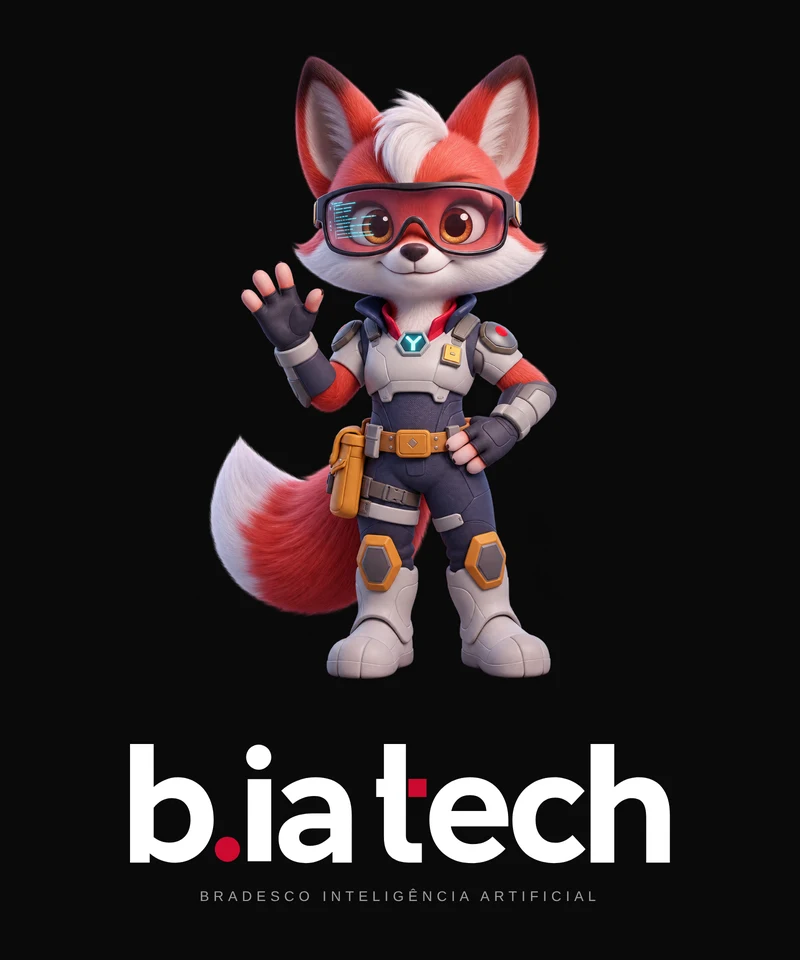
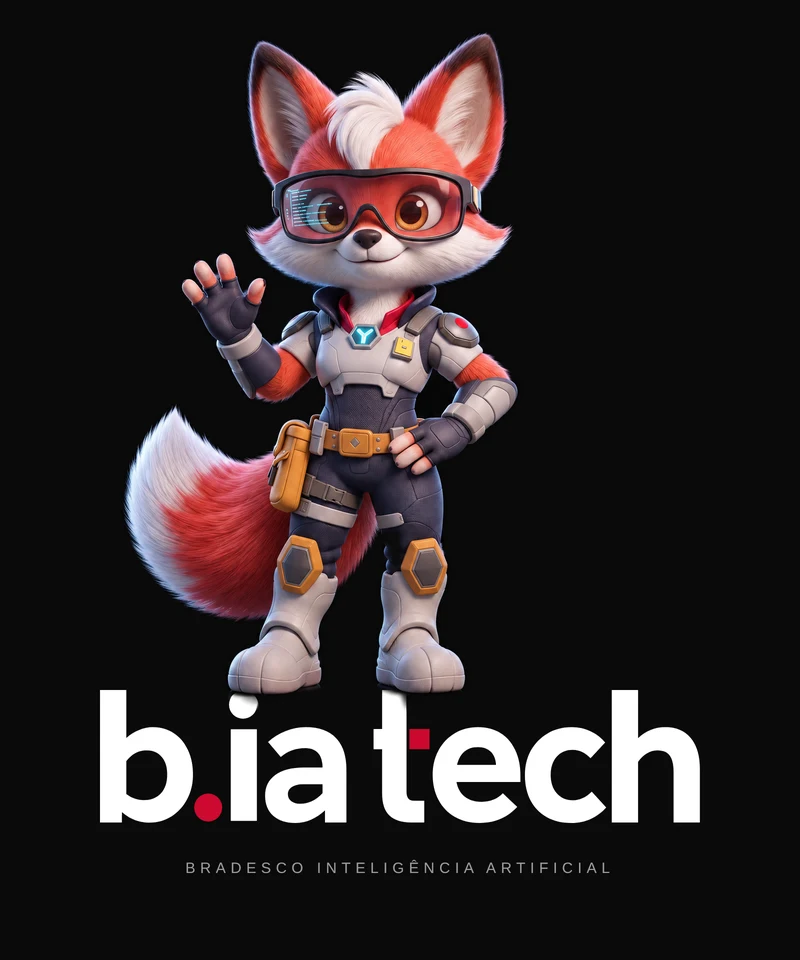
Lockup vertical gerado como cena: BIA de pé sobre o wordmark
Claude-Session: https://claude.ai/code/session_01ADeYYMQxRk91v9C1RJmNJ3

diff --git a/brandbook-html/index.html b/brandbook-html/index.html
@@ -463,7 +463,7 @@ pre.code{margin:0;background:var(--ink);color:var(--t-d2);font:12.5px/1.7 var(--
 <section id="lockups" class="dark grid">
   <div class="wrap">
     <div class="sec-h"><span class="lab">09 — Lockups</span><h2>BIA Tech com o wordmark</h2>
-      <p class="lead">O lockup é a única forma aprovada de juntar a personagem e a marca numa assinatura. Cada lockup tem arte própria: no horizontal, a BIA fica à direita, virada para o wordmark, e o apresenta com a palma da mão; no vertical, ela aparece de corpo inteiro acenando, centralizada acima do wordmark, com um respiro de 1X entre os pés e o topo do "t". Não monte combinações novas com outras poses.</p></div>
+      <p class="lead">O lockup é a única forma aprovada de juntar a personagem e a marca numa assinatura. Cada lockup tem arte própria: no horizontal, a BIA fica à direita, virada para o wordmark, e o apresenta com a palma da mão; no vertical, ela foi gerada dentro do próprio lockup, de pé sobre o wordmark (uma bota no pingo do "i", outra no topo do "t"), acenando, com luz e sombra de contato da cena. Não monte combinações novas com outras poses.</p></div>
     <div class="lk">
       <figure><img class="chk" src="img/p-lockup-horizontal-positivo.webp" alt="Lockup horizontal positivo" loading="lazy"><figcaption>Horizontal · positivo · PNG transparente</figcaption></figure>
       <figure><img src="img/p-lockup-horizontal-negativo.webp" alt="Lockup horizontal negativo" loading="lazy"><figcaption>Horizontal · negativo · fundo #0A0A0A</figcaption></figure>
